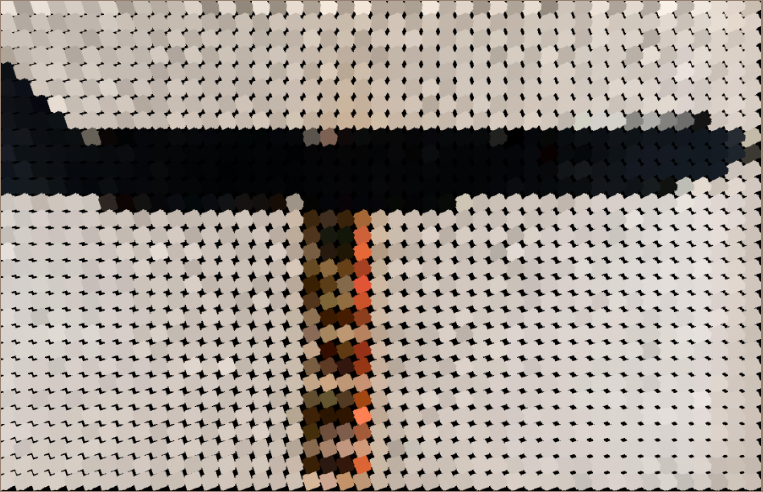
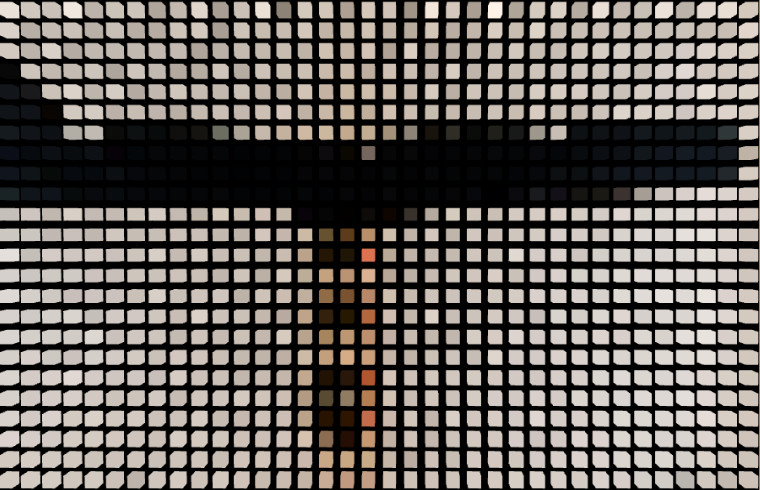
upd

diff --git a/scripts/art/Indo.js b/scripts/art/Indo.js
@@ -3,7 +3,7 @@ let img;
 let particles = [];
 
 const PARTICLE_SIZE = 15;
-const RESOLUTION = 20;
+const RESOLUTION = 25;
 const easing = 0.01;
 
 function preload() {
@@ -11,9 +11,11 @@ function preload() {
 }
 
 function setup() {
+    // Create a canvas with WEBGL renderer
     let c = createCanvas(900, 600, WEBGL);
     c.parent("canvasContainer");
 
+    // Enable orbit control for easy 3D navigation if needed(zoom, orbit rundt om model..)
     orbitControl();
 
     spawnParticles();
@@ -23,43 +25,61 @@ function draw() {
     background(0);
     // rotateY(frameCount * 0.01);
     // image(img, 0, 0);
+    // Update and draw each particle
     particles.forEach((particle) => {
         particle.update();
         particle.draw();
     });
 }
 
+// Function to spawn particles based on image pixels
 function spawnParticles() {
     for (let i = 0; i < width; i += RESOLUTION) {
         for (let j = 0; j < height; j += RESOLUTION) {
+            // Map particle positions to image coordinates
             let x = i / width * img.width
             let y = j / height * img.height
 
+            // Get color from image at current position
             const color = img.get(x, y);
-            particles.push(new Particle(i + PARTICLE_SIZE / 2, j + PARTICLE_SIZE / 2, color));
+
+            // Center the particles in the grid
+            let xOffset = (img.width * (RESOLUTION / width)) / 5;
+            let yOffset = (img.height * (RESOLUTION / height)) / 5;
+
+            // Create a new particle with the calculated position and color
+            particles.push(new Particle(i + xOffset + PARTICLE_SIZE / 2, j + yOffset + PARTICLE_SIZE / 2, color));
         }
     }
 }
 
 class Particle {
     constructor(x, y, color) {
+        // Set initial position relative to canvas center
         this.x = x - width / 2;
         this.y = y - height / 2;
         this.z = 0;
+
+        // Store the color of the particle
         this.color = color;
-        this.originalX = this.x; // Store the original positions
+
+        // Store the original positions for smooth transitions
+        this.originalX = this.x;
         this.originalY = this.y;
     }
 
     update() {
-        // Example: Change particle color when the mouse is clicked
+        
         if (mouseIsPressed) {
-            // Example: Move particles away from the mouse cursor
+            // Move particles away from the mouse cursor
             let distanceToMouse = dist(this.x, this.y, mouseX - width / 2, mouseY - height / 2);
             if (distanceToMouse < 50) {
+                // Calculate force vector away from the mouse
                 let force = createVector(this.x - mouseX + width / 2, this.y - mouseY + height / 2);
                 force.normalize();
                 force.mult(10);
+
+                // Apply frce to particle position
                 this.x += force.x;
                 this.y += force.y;
             }        
@@ -72,16 +92,20 @@ class Particle {
 
     draw() {
         fill(this.color);
+        // Disable stroke for a cleaner look
         noStroke();
+        // Push and translate to the particle's position
         push();
         translate(this.x, this.y, this.z);
 
+        // Create a box at the particle's position with rotation for visual effects
         for (let i = 0; i < 4; i++) {
-            rotateY(HALF_PI);
+            rotateY(frameCount * 0.01);
             rotateX(frameCount * 0.01);
             box(PARTICLE_SIZE);
         }
 
+        // Pop to revert transformation
         pop();
     }
 }
